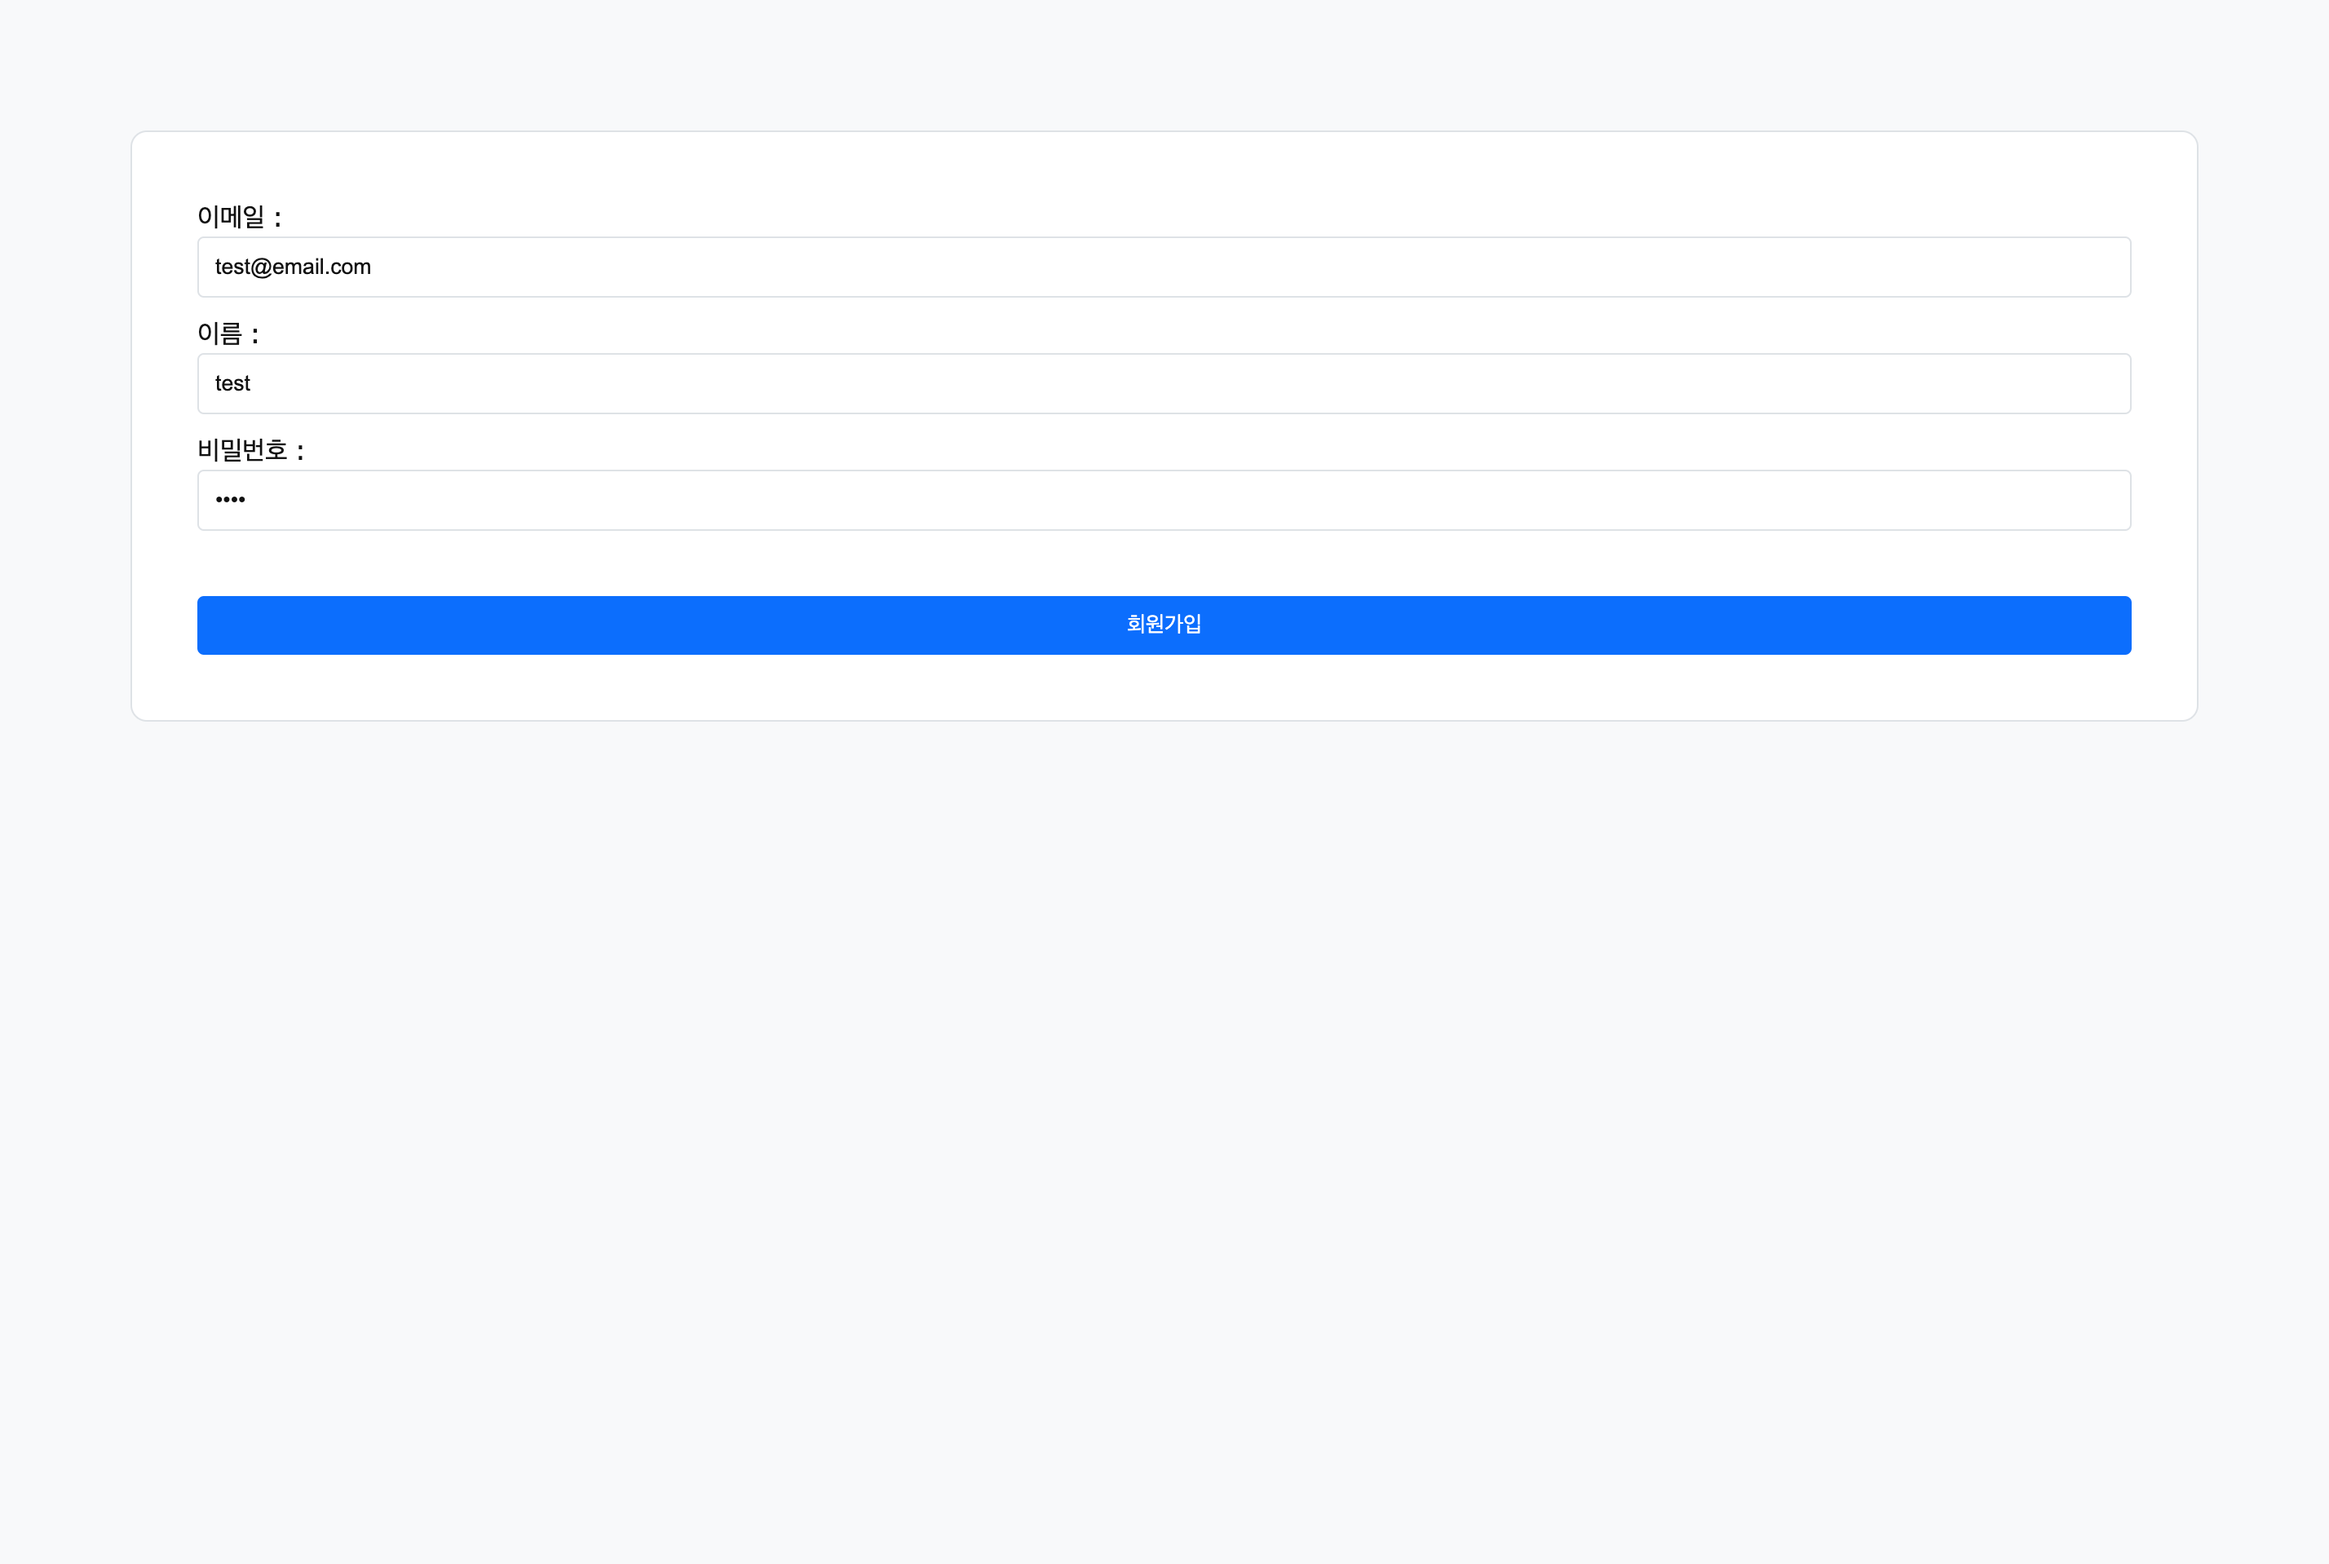
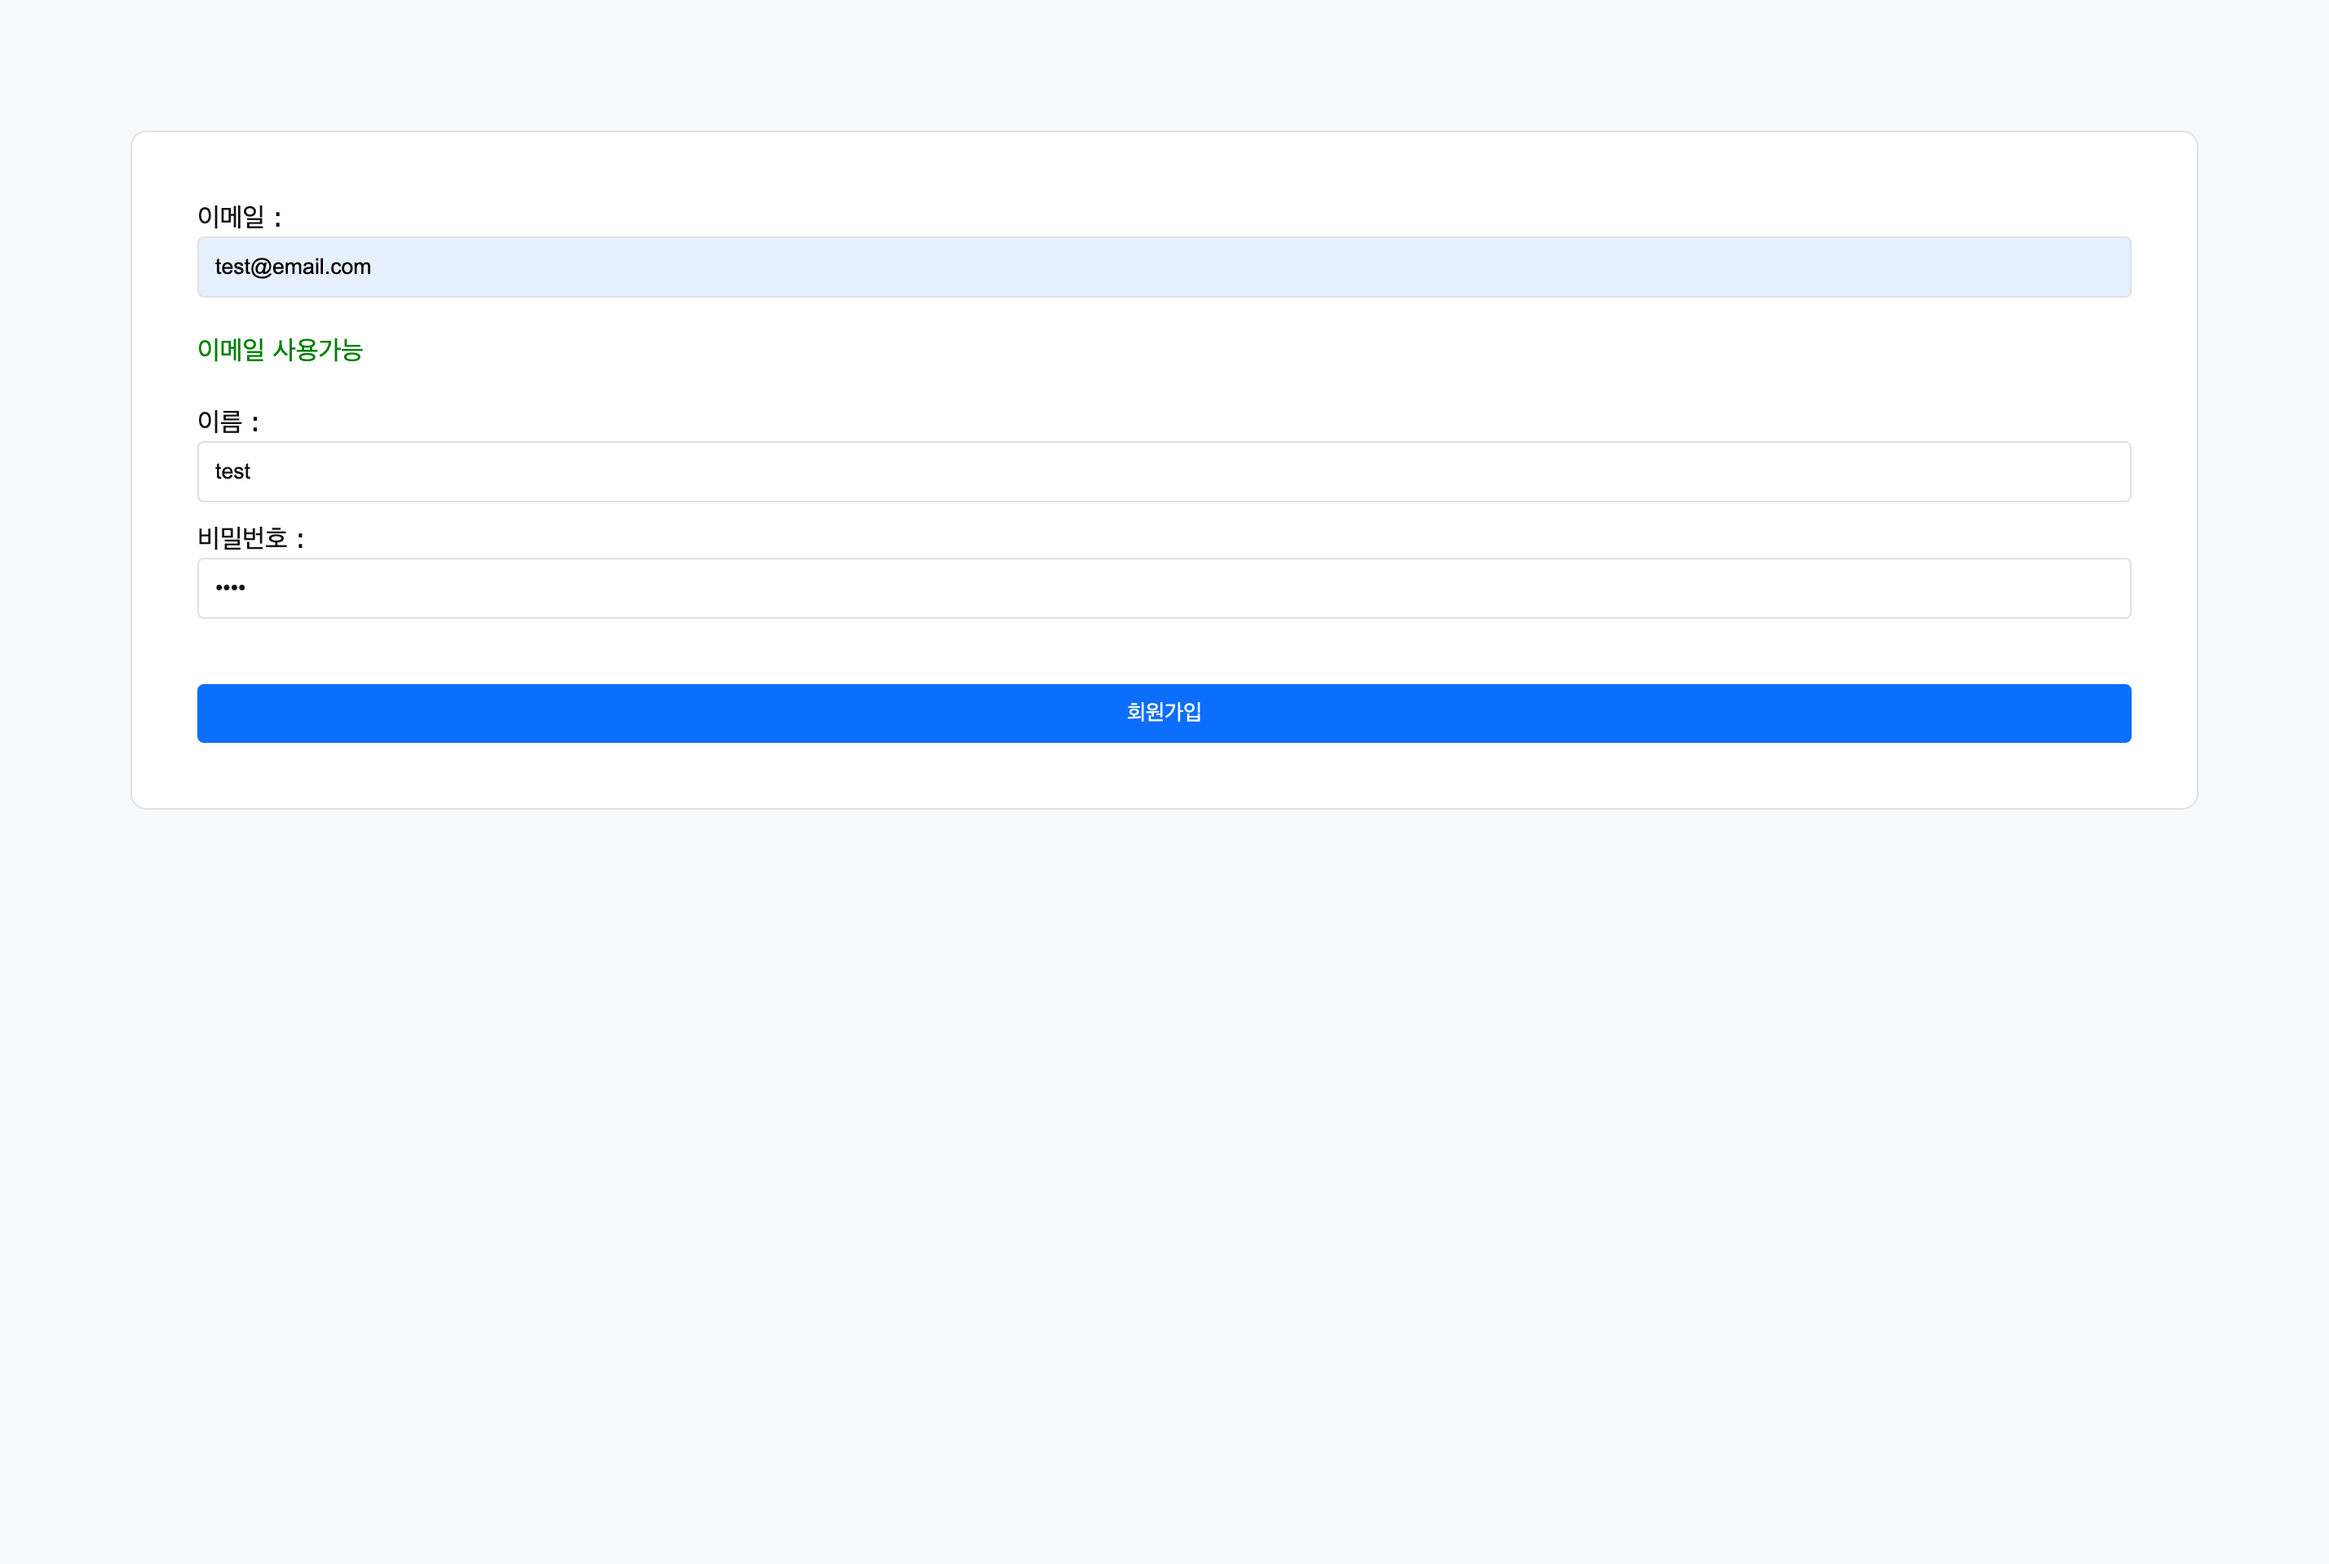
feat: update member, board functions

Changed region(s): [[0.0623, 0.3384, 0.9349, 0.4922], [0.0935, 0.2153, 0.1558, 0.3076]]

diff --git a/src/main/resources/templates/board/write.html b/src/main/resources/templates/board/write.html
@@ -13,10 +13,10 @@
 <body>
     <!-- enctype="multipart/form-data" : 파일이나 이미지를 서버로 전송 -->
     <form action="/board/write" method="post" enctype="multipart/form-data">
-        작성자 : <input type="text" name="boardWriter" placeholder="writer" /><br>
-        비밀번호 : <input type="password" name="boardPassword" placeholder="password" /><br>
-        제목 : <input type="text" name="boardTitle" placeholder="title" /><br>
-        내용 : <textarea name="boardContents" cols="30" rows="10" placeholder="contents"></textarea><br>
+        작성자 : <input type="text" name="boardWriter" placeholder="작성자" /><br>
+        비밀번호 : <input type="password" name="boardPassword" placeholder="비밀번호" /><br>
+        제목 : <input type="text" name="boardTitle" placeholder="제목" /><br>
+        내용 : <textarea name="boardContents" cols="30" rows="10" placeholder="내용"></textarea><br>
         <!-- 파일 첨부 -->
         <!-- 다중 파일 첨부 (multiple) -->
         파일 : <input type="file" name="boardFile" multiple /><br>

diff --git a/src/main/resources/templates/board/update.html b/src/main/resources/templates/board/update.html
@@ -14,7 +14,7 @@
     <form action="/board/update" method="post" name="updateForm">
         <input type="hidden" name="id" th:value="${boardUpdate.id}" />
         작성자 : <input type="text" name="boardWriter" th:value="${boardUpdate.boardWriter}" readonly /><br>
-        비밀번호 : <input type="password" name="boardPassword" id="boardPassword" placeholder="password" /><br>
+        비밀번호 : <input type="password" name="boardPassword" id="boardPassword" placeholder="비밀번호" /><br>
         제목 : <input type="text" name="boardTitle" th:value="${boardUpdate.boardTitle}" /><br>
         내용 : <textarea name="boardContents" cols="30" rows="10" th:text="${boardUpdate.boardContents}"></textarea><br>
         <input type="hidden" name="boardHits" th:value="${boardUpdate.boardHits}" />

diff --git a/src/main/resources/templates/member/join.html b/src/main/resources/templates/member/join.html
@@ -14,10 +14,10 @@
 </head>
 <body>
     <form action="/member/join" method="post">
-        이메일 : <input type="text" name="memberEmail" id="memberEmail" placeholder="email" onblur="emailCheck()" /><br>
+        이메일 : <input type="text" name="memberEmail" id="memberEmail" placeholder="이메일" onblur="emailCheck()" /><br>
         <p id="check-result"></p>
-        이름 : <input type="text" name="memberName" placeholder="name" /><br>
-        비밀번호 : <input type="password" name="memberPassword" placeholder="password" /><br>
+        이름 : <input type="text" name="memberName" placeholder="이름" /><br>
+        비밀번호 : <input type="password" name="memberPassword" placeholder="비밀번호" /><br>
         <input type="submit" value="회원가입" />
     </form>
 </body>

diff --git a/src/main/resources/templates/member/login.html b/src/main/resources/templates/member/login.html
@@ -12,8 +12,8 @@
 </head>
 <body>
     <form action="/member/login" method="post">
-        이메일 : <input type="text" name="memberEmail" placeholder="email" /><br>
-        비밀번호 : <input type="password" name="memberPassword" placeholder="password" /><br>
+        이메일 : <input type="text" name="memberEmail" placeholder="이메일" /><br>
+        비밀번호 : <input type="password" name="memberPassword" placeholder="비밀번호" /><br>
         <input type="submit" value="로그인" />
     </form>
 </body>
